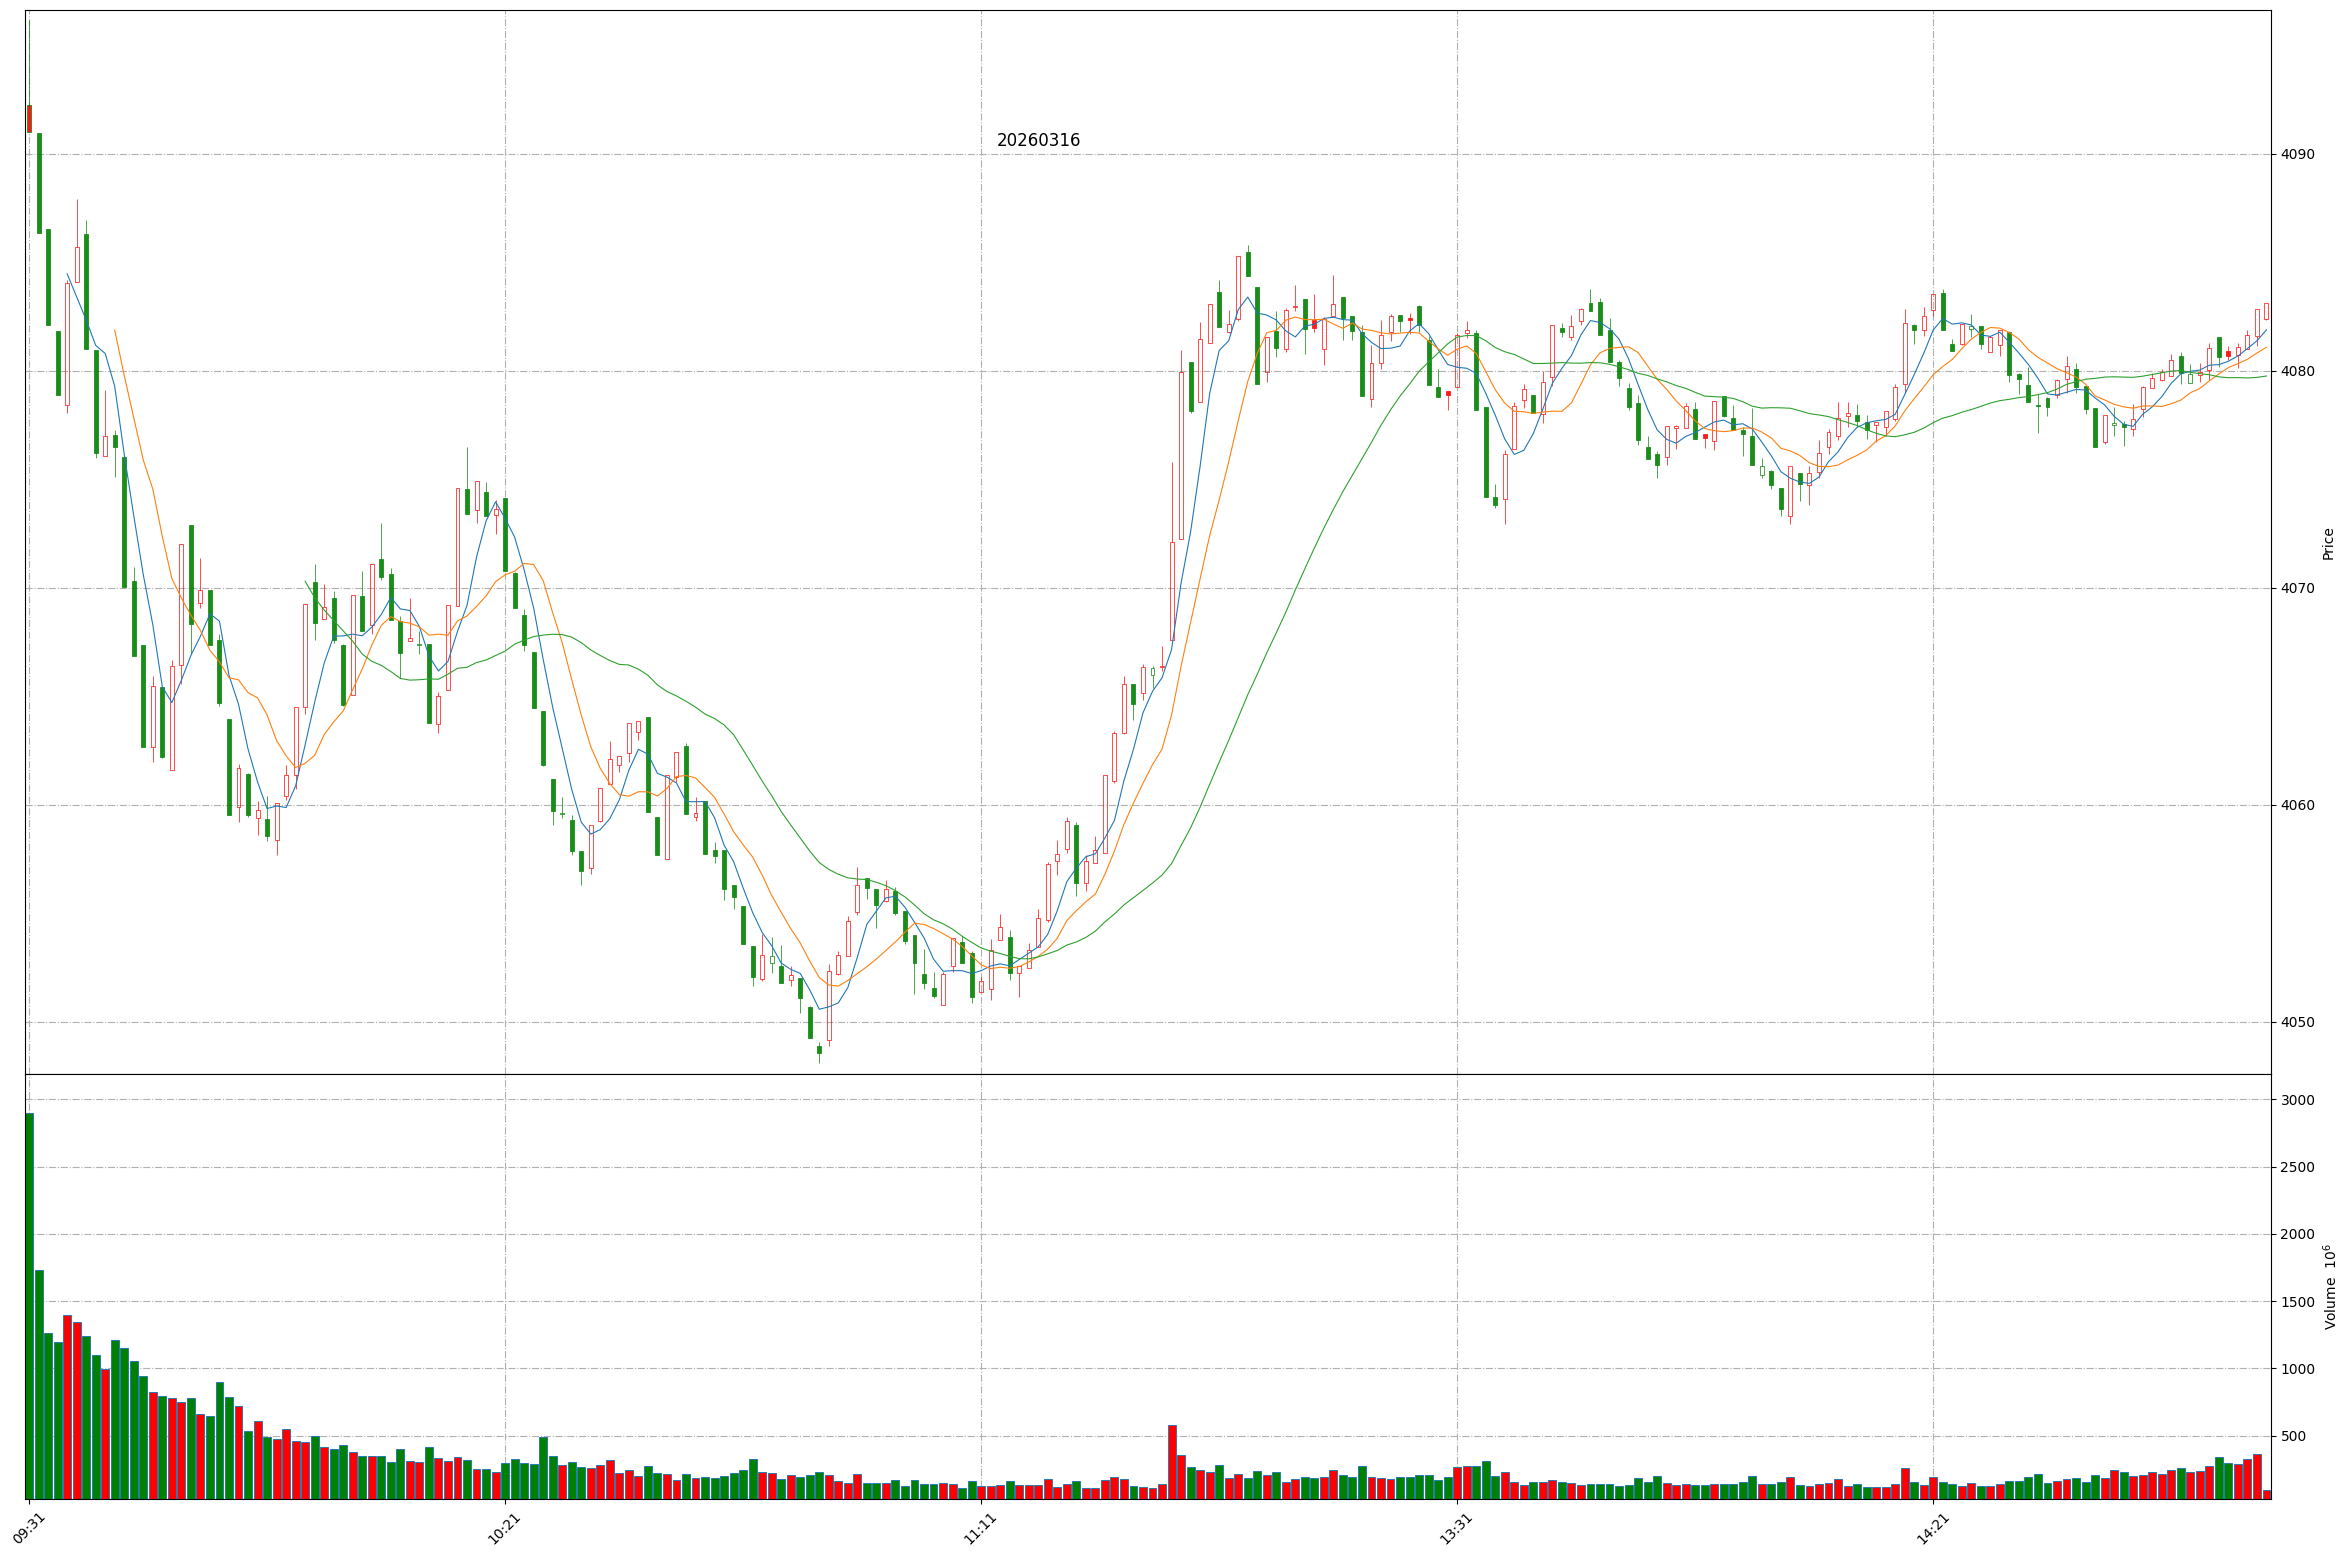
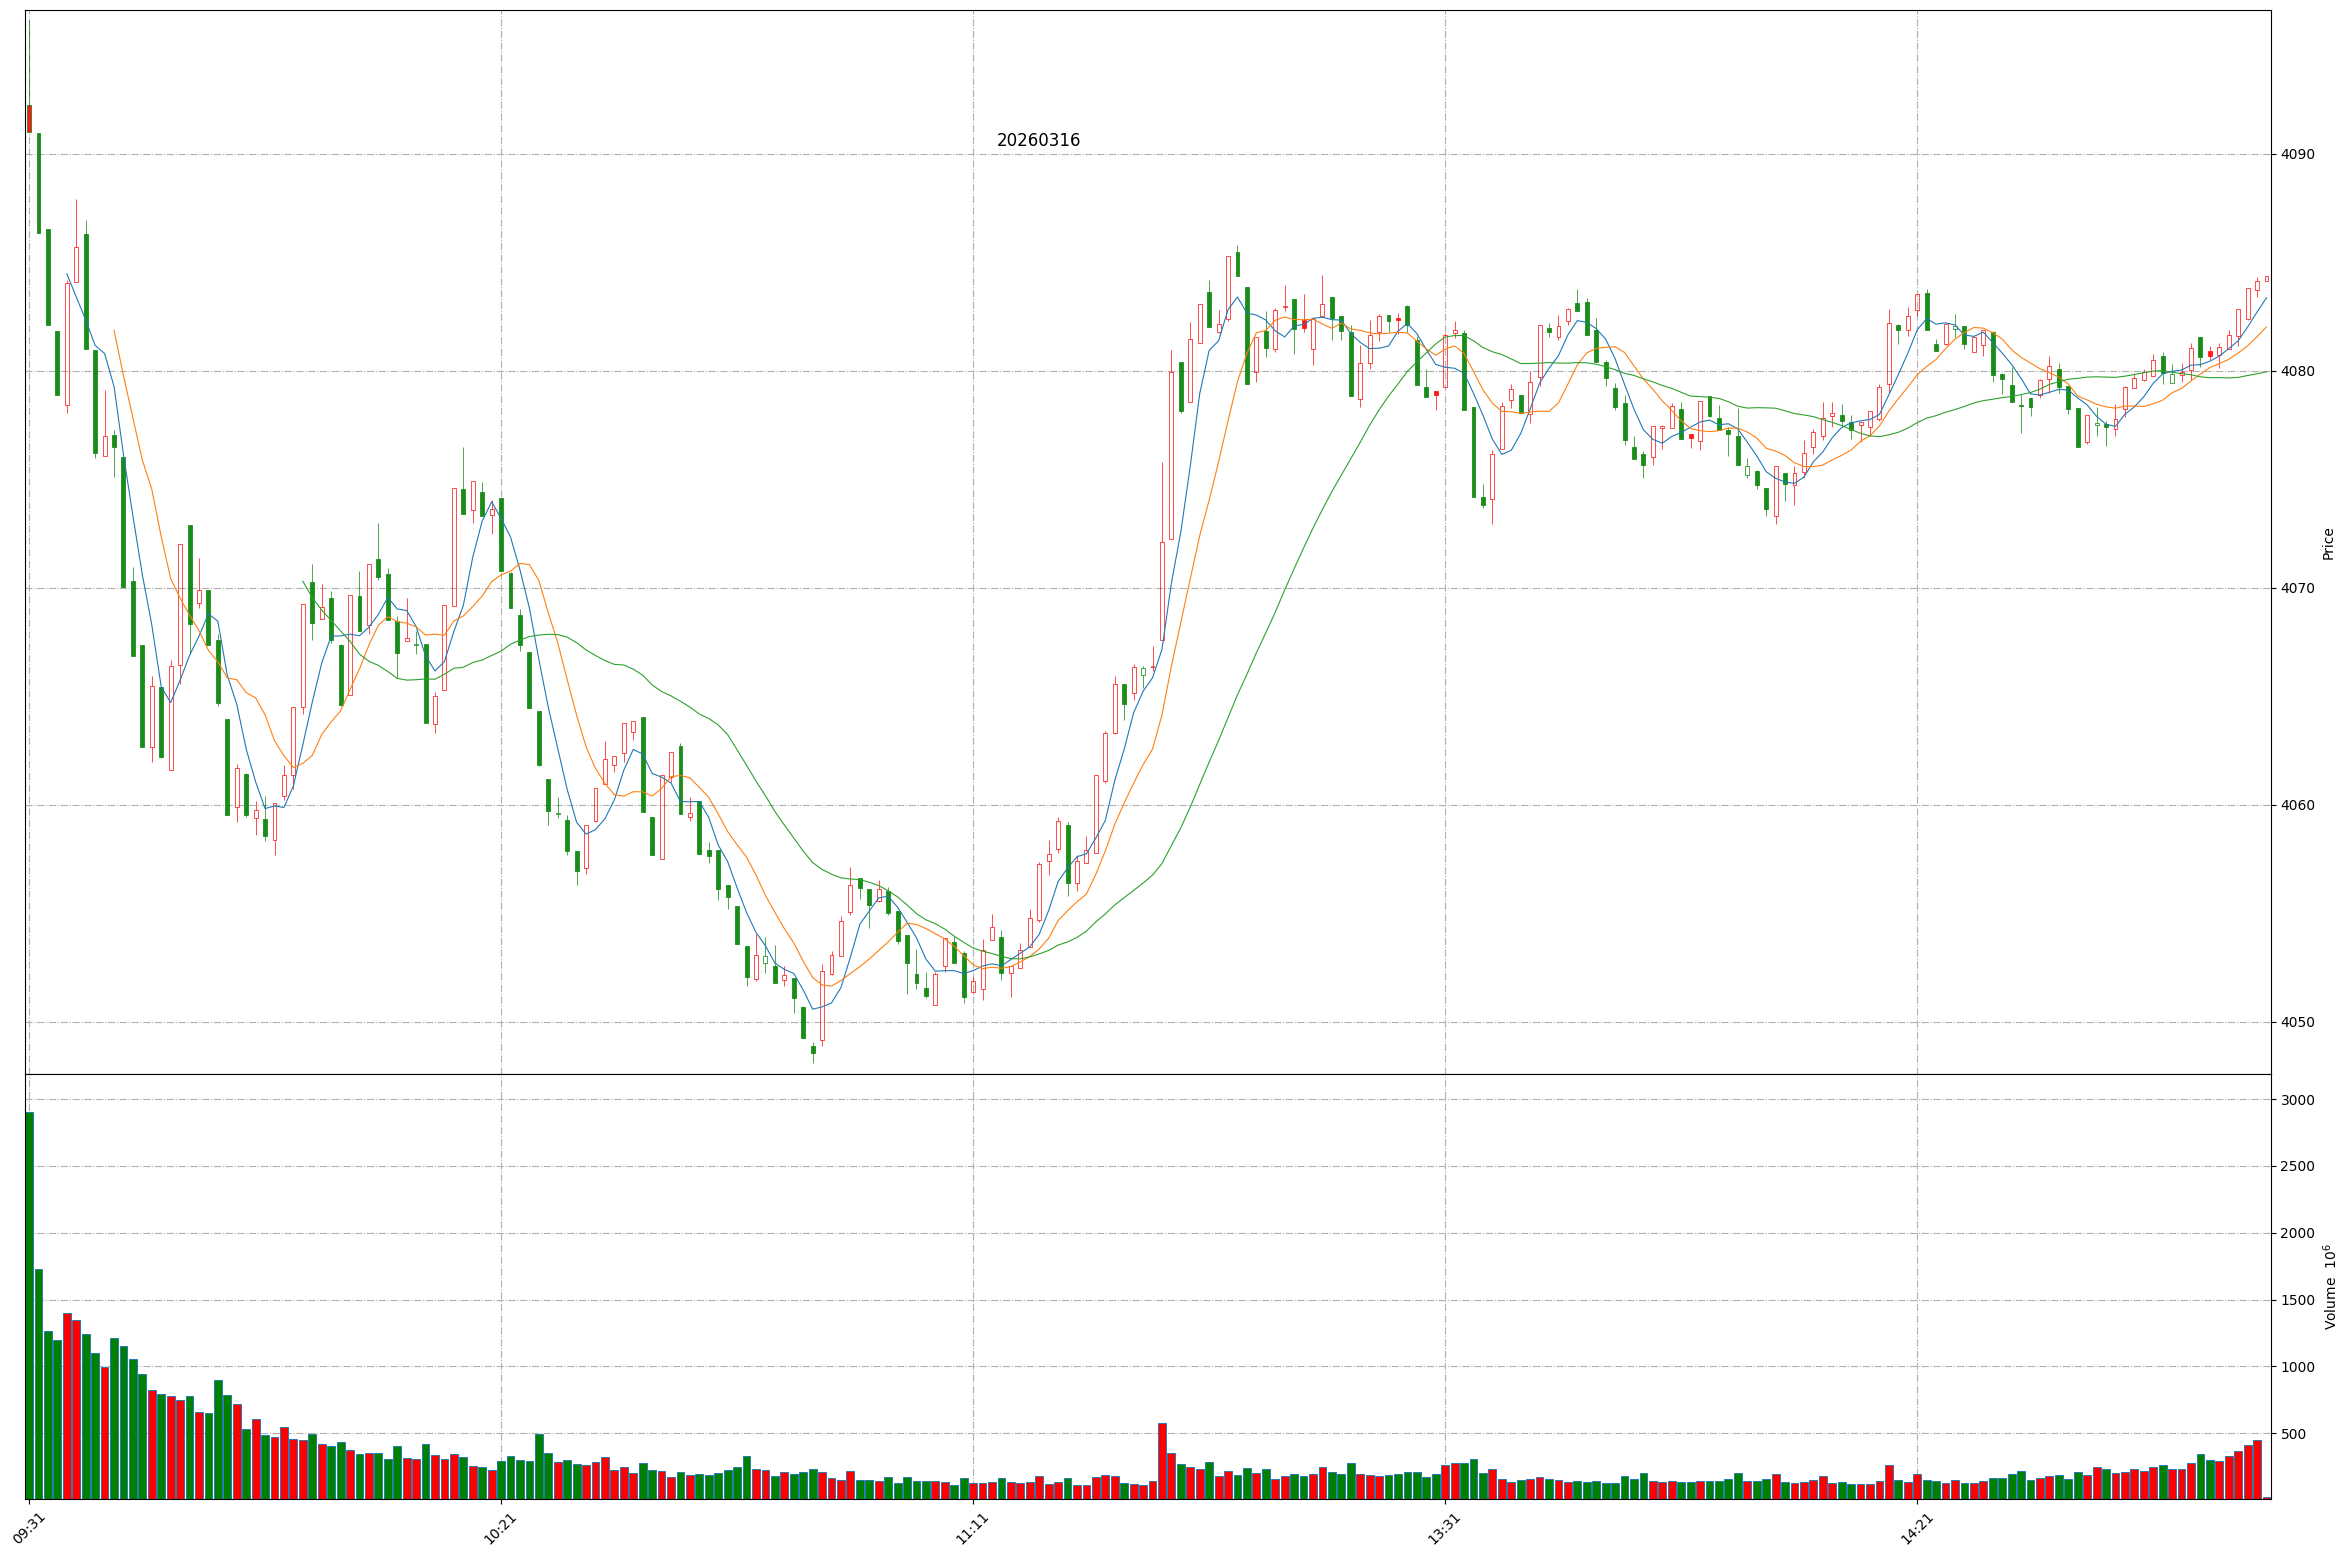
Github action update at 2026-03-16 14:59:55.

diff --git a/README.md b/README.md
@@ -1,11 +1,11 @@
 
 # Daily-A-share-market-quotes 每日 A 股指数（5min 更新）- 20260316
 
-### 上证指数 20260316 14:55
+### 上证指数 20260316 14:59
 ![](./fig/2026/3/20260316-sh000001.png)
 
-### 深证成指 20260316 14:55
+### 深证成指 20260316 14:59
 ![](./fig/2026/3/20260316-sz399001.png)
 
-### 北证50 20260316 14:55
+### 北证50 20260316 14:59
 ![](./fig/2026/3/20260316-bj899050.png)
